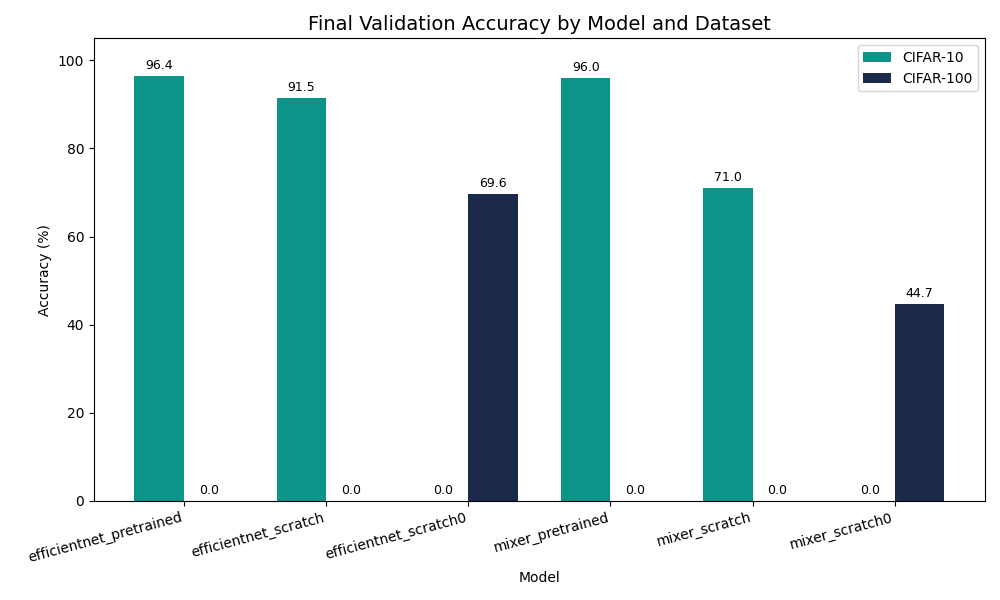
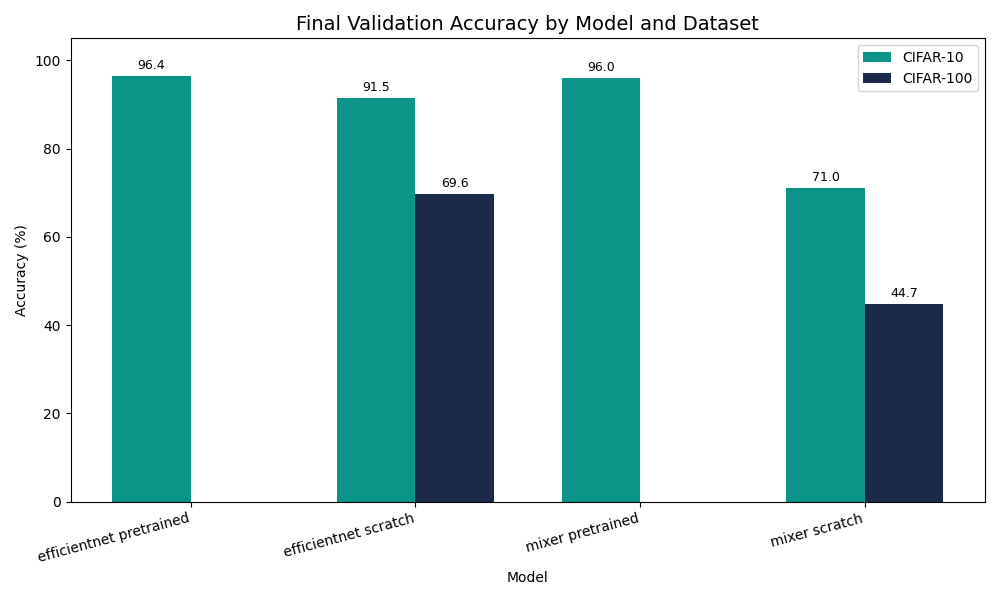
Update final accuracy comparison plot

Changed region(s): [[0.0, 0.09, 0.961, 0.99], [0.279, 0.03, 0.775, 0.06], [0.031, 0.09, 0.093, 0.12]]

diff --git a/utils.py b/utils.py
@@ -92,20 +92,21 @@ def plot_final_accuracy(results_dir: str = "results") -> None:
     cifar100_files = [f for f in glob.glob(f"{results_dir}/*_results.csv")
                       if f.replace("_results.csv", "").endswith("cifar100")]
 
-    def get_final_acc(files):
+    def get_final_acc(files, dataset):
         results = {}
         for f in files:
             df = pd.read_csv(f)
             name = f.split("\\")[-1].split("/")[-1].replace("_results.csv", "")
-            # Strip dataset suffix for cleaner labels
-            label = name.replace("_cifar10", "").replace("_cifar100", "")
+            # Strip dataset suffix and clean up label
+            label = name.replace(f"_{dataset}", "").replace("_", " ")
             results[label] = df["val_acc"].iloc[-1]
         return results
 
-    cifar10_results = get_final_acc(cifar10_files)
-    cifar100_results = get_final_acc(cifar100_files)
+    cifar10_results = get_final_acc(cifar10_files, "cifar10")
+    cifar100_results = get_final_acc(cifar100_files, "cifar100")
 
-    all_models = sorted(set(list(cifar10_results.keys()) + list(cifar100_results.keys())))
+    # Only show models that have at least a CIFAR-10 result
+    all_models = sorted(cifar10_results.keys())
     x = np.arange(len(all_models))
     width = 0.35
 
@@ -113,9 +114,12 @@ def plot_final_accuracy(results_dir: str = "results") -> None:
     bars1 = ax.bar(x - width/2,
                    [cifar10_results.get(m, 0) for m in all_models],
                    width, label="CIFAR-10", color="#0D9488")
-    bars2 = ax.bar(x + width/2,
-                   [cifar100_results.get(m, 0) for m in all_models],
-                   width, label="CIFAR-100", color="#1B2A4A")
+
+    # Only plot CIFAR-100 bars where data exists
+    cifar100_vals = [cifar100_results.get(m, None) for m in all_models]
+    cifar100_x = [x[i] + width/2 for i, v in enumerate(cifar100_vals) if v is not None]
+    cifar100_y = [v for v in cifar100_vals if v is not None]
+    bars2 = ax.bar(cifar100_x, cifar100_y, width, label="CIFAR-100", color="#1B2A4A")
 
     ax.bar_label(bars1, fmt="%.1f", padding=3, fontsize=9)
     ax.bar_label(bars2, fmt="%.1f", padding=3, fontsize=9)
@@ -124,7 +128,7 @@ def plot_final_accuracy(results_dir: str = "results") -> None:
     ax.set_xlabel("Model")
     ax.set_ylabel("Accuracy (%)")
     ax.set_xticks(x)
-    ax.set_xticklabels(all_models, rotation=15, ha="right")
+    ax.set_xticklabels(all_models, rotation=15, ha="right", fontsize=10)
     ax.legend()
     ax.set_ylim(0, 105)
     plt.tight_layout()
